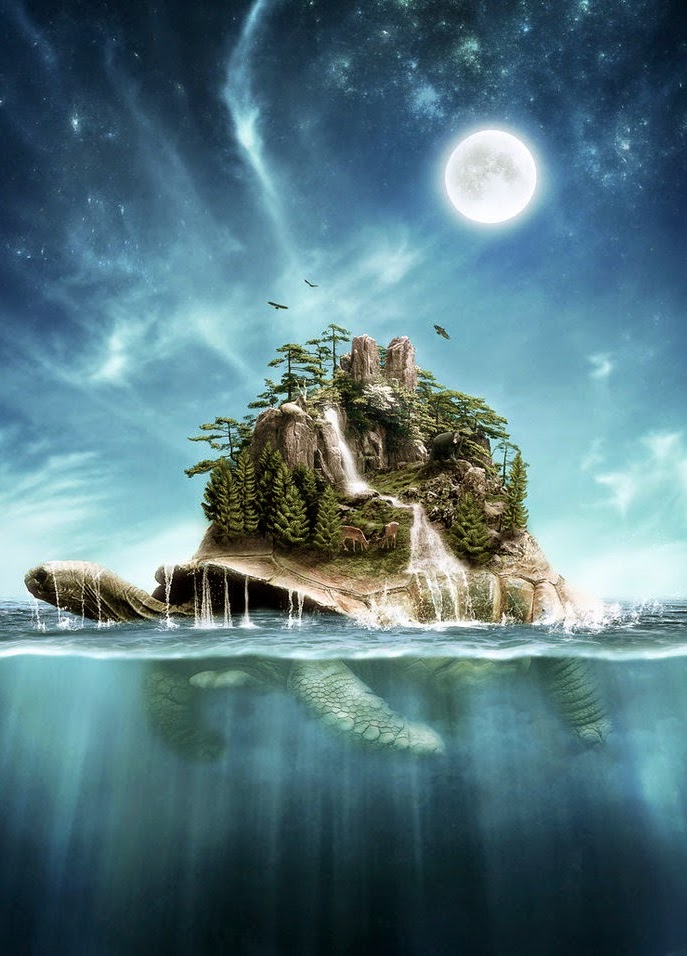
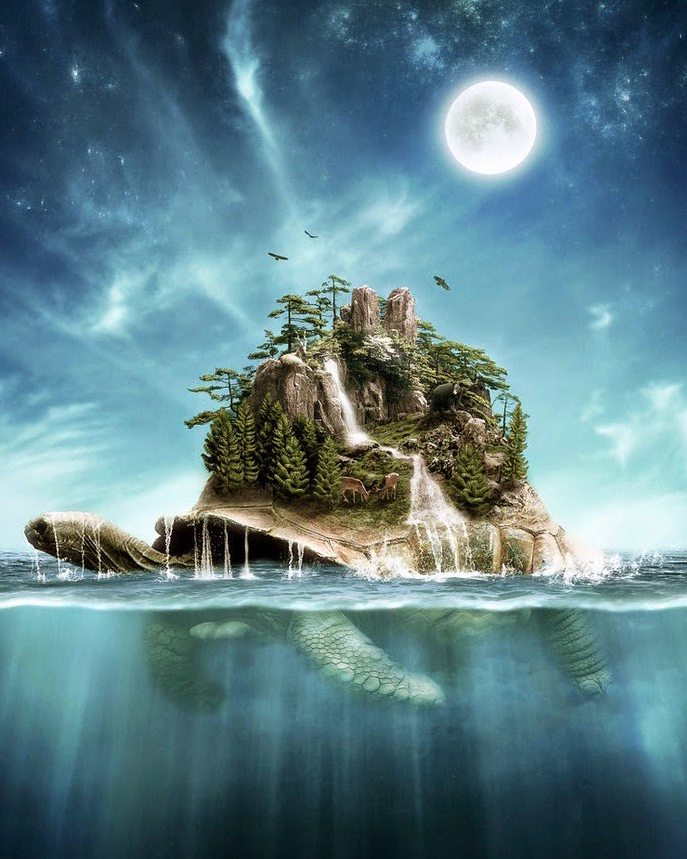
Make image sizes fixed

diff --git a/pages/tools/index.jsx b/pages/tools/index.jsx
@@ -58,46 +58,49 @@ export default function ({ images }) {
   return (
     <Container fluid>
       <Row>
-        <Col className="col-lg-4 order-1 order-lg-2 p-4 p-sm-5 p-lg-4 p-xl-5 green">
+        <Col className="col-lg-4 order-lg-2 order-3 p-4 p-sm-5 p-lg-4 p-xl-5 green">
           <div className="center">
             <h1 style={{ fontSize: "92px" }}>&#x1f4a0;</h1>
             <h2 className="logo">Pricing</h2>
-            <p style={{ fontSize: "16px" }}><s>All plans come with a 90-day free trial</s><br></br>All plans are currently free</p>
+            <p style={{ fontSize: "16px" }}><s>All plans come with a 90-day free trial</s><br></br><b>All plans are currently free</b></p>
             <Table className="table center" hover responsive>
-            <thead>
-              <tr><th>Roommate</th><th>Family</th><th>Community</th></tr>
-            </thead>
-            <tbody style={{ fontSize: "16px" }}>
-              <tr><td>For groups of friends</td><td>For groups with shared values</td><td>For large groups sharing resources</td></tr>
-              <tr><td>Chores</td><td>Chores, Hearts</td><td>All apps</td></tr>
-              <tr><td>Up to 5 users</td><td>Up to 10 users</td><td>Up to 20 users</td></tr>
-              <tr><td><s>$20/mo</s></td><td><s>$40/mo</s></td><td><s>$60/mo</s></td></tr>
-              {/* <tr>
-                <td><Button variant="outline-success" size="sm" href={roommateUri}>Subscribe</Button></td>
-                <td><Button variant="outline-success" size="sm" href={familyUri}>Subscribe</Button></td>
-                <td><Button variant="outline-success" size="sm" href={communityUri}>Subscribe</Button></td>
-              </tr> */}
-              <tr>
-                <td><SlackButton appName="Chores" installUrl={choresUri} /></td>
-                <td><SlackButton appName="Hearts" installUrl={heartsUri} /></td>
-                <td><SlackButton appName="Things" installUrl={thingsUri} /></td>
-              </tr>
-            </tbody>
-          </Table>
+              <thead>
+                <tr><th>Roommate</th><th>Family</th><th>Community</th></tr>
+              </thead>
+              <tbody style={{ fontSize: "16px" }}>
+                <tr><td>For groups of friends</td><td>For groups with shared values</td><td>For large groups sharing resources</td></tr>
+                <tr><td>Chores</td><td>Chores, Hearts</td><td>All apps</td></tr>
+                <tr><td>Up to 5 users</td><td>Up to 10 users</td><td>Up to 20 users</td></tr>
+                <tr><td><s>$20/mo</s></td><td><s>$40/mo</s></td><td><s>$60/mo</s></td></tr>
+                {/* <tr>
+                  <td><Button variant="outline-success" size="sm" href={roommateUri}>Subscribe</Button></td>
+                  <td><Button variant="outline-success" size="sm" href={familyUri}>Subscribe</Button></td>
+                  <td><Button variant="outline-success" size="sm" href={communityUri}>Subscribe</Button></td>
+                </tr> */}
+                {/* <tr>
+                  <td><SlackButton appName="Chores" installUrl={choresUri} /></td>
+                  <td><SlackButton appName="Hearts" installUrl={heartsUri} /></td>
+                  <td><SlackButton appName="Things" installUrl={thingsUri} /></td>
+                </tr> */}
+              </tbody>
+            </Table>
+            <p>Coming soon...</p>
+            <Button variant="outline-success" size="md" href="https://mailchi.mp/a69de84158a5/app-interest">Get updates</Button>
           </div>
         </Col>
-        <Col className="col-lg-4 order-2 order-lg-1 p-4 p-sm-5 p-lg-4 p-xl-5 red">
+
+        <Col className="col-lg-4 order-1 p-4 p-sm-5 p-lg-4 p-xl-5 red">
           <h5>Zaratan builds pioneering software for co-living, running on Slack.</h5>
           <hr></hr>
-          <p>Developed by economists and game designers, Zaratan creates tools to help people share space:</p>
+          <p>Developed by <b>economists and game designers</b>, Zaratan creates tools to help people share space:</p>
           <ul>
             <li><b>Chores</b> for keeping it clean</li>
             <li><b>Hearts</b> for mutual accountability</li>
-            <li><b>Things</b> for group purchasing</li>
+            <li><b>Things</b> for bulk purchasing</li>
             <li>And more to come</li>
           </ul>
 
-          <p>These tools contain the latest thinking in ethical technology, with four core principles:</p>
+          <p>These tools contain the latest thinking in <b>ethical technology</b>, with four core principles:</p>
           <ul>
             <li>No managers or privileged roles</li>
             <li>Simple and intuitive inputs</li>
@@ -109,19 +112,20 @@ export default function ({ images }) {
           <div className="center">
             <Link href="https://archive.org/details/kronovet-metagov-20230329">Watch the talk</Link>
           </div>
-
         </Col>
-        <Col className="col-lg-4 order-3 order-lg-3 p-4 p-sm-5 p-lg-4 p-xl-5 blue">
+
+        <Col className="col-lg-4 order-lg-3 order-2 p-4 p-sm-5 p-lg-4 p-xl-5 blue">
           <Carousel interval={3600} variant="dark">
             {
               images.map((imageUri, i) =>
                 <Carousel.Item key={i}>
                   <Image
-                    className="img-thumbnail d-block w-100"
+                    className="rounded border border-3"
                     src={imageUri}
                     alt={imageUri}
-                    width={200}
-                    height={265}
+                    width={316}
+                    height={560}
+                    style={{ margin: "auto", display: "block" }}
                   />
                 </Carousel.Item>
               )

diff --git a/pages/houses/sage.jsx b/pages/houses/sage.jsx
@@ -28,6 +28,7 @@ export default function ({ images }) {
   return (
     <Container fluid>
       <Row>
+
         <Col className="col-lg-4 order-1 order-lg-2 p-4 p-sm-5 p-lg-4 p-xl-5 green">
           <div className="center">
             <h1 className="spaced logo" style={{fontSize: "78px"}}>Sage House</h1>
@@ -35,16 +36,18 @@ export default function ({ images }) {
             <br></br>
 
             <p>
-              A beautifully-restored 1905 Craftsman, in the heart of vibrant Highland Park, Los Angeles.
+              A beautifully-restored 1905 Craftsman, in the heart of vibrant <b>Highland Park, Los Angeles</b>.
             </p>
             <p>
               This nine-bedroom home features a
               restaurant-style kitchen,
-              original dining room,
+              woodworked dining room,
               sunny living room,
               quiet library,
-              second-floor deck,
-              backyard with fire pit,
+              upstairs deck,
+              backyard fire pit,
+              recording studio,
+              gym,
               guest room,
               and four full bathrooms.
             </p>
@@ -53,40 +56,44 @@ export default function ({ images }) {
             <Button variant="outline-success" size="lg" href={applyUrl}>Apply Now</Button>
           </div>
         </Col>
-        <Col className="col-lg-4 order-2 order-lg-1 p-4 p-sm-5 p-lg-4 p-xl-5 red">
-          <Table className="table center">
-            <thead>
-              <tr><th></th><th>Sage</th><th>Craiglist</th></tr>
-            </thead>
-            <tbody>
-              <tr><th>Rent</th><td>$1,150*</td><td>$950</td></tr>
-              <tr><th>Utilities</th><td>Included</td><td>$80</td></tr>
-              <tr><th>Supplies</th><td>Included</td><td>$60</td></tr>
-              <tr><th>Food Staples</th><td>Included</td><td>$70</td></tr>
-              <tr><th>Internet</th><td>Included</td><td>$40</td></tr>
-              <tr><th>Total</th><td style={{backgroundColor: "#00ff7f33"}}>$1,150</td><td>$1,200</td></tr>
-            </tbody>
-          </Table>
 
-          <p className="center">*Pricing varies by room</p>
-        </Col>
-        <Col className="col-lg-4 order-3 order-lg-3 p-4 p-sm-5 p-lg-4 p-xl-5 blue">
+        <Col className="col-lg-4 order-2 order-lg-3 p-4 p-sm-5 p-lg-4 p-xl-5 blue">
           <Carousel interval={3600}>
             {
               images.map((imageUri, i) =>
                 <Carousel.Item key={i}>
                   <Image
-                    className="img-thumbnail d-block w-100"
+                    className="rounded border border-3"
                     src={imageUri}
                     alt={imageUri}
-                    width={200}
-                    height={350}
+                    width={320}
+                    height={435}
+                    style={{ margin: "auto", display: "block" }}
                   />
                 </Carousel.Item>
               )
             }
           </Carousel>
         </Col>
+
+        <Col className="col-lg-4 order-3 order-lg-1 p-4 p-sm-5 p-lg-4 p-xl-5 red">
+          <Table className="table center">
+            <thead>
+              <tr><th></th><th>Sage</th><th>Craiglist</th></tr>
+            </thead>
+            <tbody>
+              <tr><th>Rent</th><td>$1,200*</td><td>$1050</td></tr>
+              <tr><th>Utilities</th><td>Included</td><td>$80</td></tr>
+              <tr><th>Supplies</th><td>Included</td><td>$60</td></tr>
+              <tr><th>Food Staples</th><td>Included</td><td>$120</td></tr>
+              <tr><th>Internet</th><td>Included</td><td>$40</td></tr>
+              <tr><th>Total</th><td style={{backgroundColor: "#00ff7f33"}}>$1,200</td><td>$1,350</td></tr>
+            </tbody>
+          </Table>
+
+          <p className="center">*Pricing varies by room</p>
+        </Col>
+
       </Row>
     </Container>
   );

diff --git a/pages/index.jsx b/pages/index.jsx
@@ -45,7 +45,7 @@ export default function () {
           <SignupForm></SignupForm>
         </Col>
         <Col className="col-lg-4 order-2 order-lg-1 p-4 p-sm-5 p-lg-4 p-xl-5 red">
-          <h5>Zaratan is an emerging coliving company in Los Angeles. We build physical houses and develop pioneering software tools.</h5>
+          <h5>Zaratan is an emerging coliving company in Los Angeles. We build physical houses and pioneering software tools.</h5>
           <hr></hr>
           <p>We believe that:</p>
           <p>
@@ -54,19 +54,26 @@ export default function () {
             <b>Community</b> cannot be bought &#x2013;&nbsp;
             <b>Rules</b> can be simple &#x2013;&nbsp;
             <b>Work</b> should be valued &#x2013;&nbsp;
-            <b>Enviroment</b> starts at home.
+            <b>Conservation</b> starts at home.
           </p>
 
           <p>
-            We're looking for people who are <b>kind, creative, and reliable</b>. We keep prices reasonable, and in return ask members to help with chores &#x2013; we don't have managers or servants.
-            Meetings can be boring, so we've developed tools to make running a house as easy as playing a game.
-            If you accept the responsibility, this might be one of the best experiences of your life.
+            We're looking for people who are <b>kind, creative, and reliable</b>. We keep prices reasonable, and in return ask members to help with chores &#x2013; we don't have managers or cleaners.
+            Meetings can be boring, so we made tools to make running a house as easy as playing a game.
+            If you can handle the freedom, this could be one of the best experiences of your life.
           </p>
         </Col>
         <Col className="col-lg-4 order-3 order-lg-3 p-4 p-sm-5 p-lg-4 p-xl-5 blue">
             {/* Image Source: https://www.deviantart.com/rowye/art/Turtle-Island-483132909 */}
             <Link href="https://en.wikipedia.org/wiki/Zaratan">
-              <Image className="img-fluid img-thumbnail" src={zaratanPic} alt="Image of a Zaratan" style={{ margin: "auto", display: "block", opacity: "0.65"}} />
+              <Image
+                className="rounded border border-3"
+                src={zaratanPic}
+                alt="Image of a Zaratan"
+                width={320}
+                height={400}
+                style={{ margin: "auto", display: "block", opacity: "0.75"}}
+              />
             </Link>
         </Col>
       </Row>

diff --git a/pages/tools/things.jsx b/pages/tools/things.jsx
@@ -4,7 +4,13 @@ export default function () {
   return (
     <Container fluid>
       <Row>
-        <Col className="col-lg-4 p-4 p-sm-5 p-lg-4 p-xl-5 green">
+      <Col className="col-lg-4 p-4 p-sm-5 p-lg-4 p-xl-5 green">
+          Coming soon
+        </Col>
+        <Col className="col-lg-4 p-4 p-sm-5 p-lg-4 p-xl-5 red">
+        <b>Things</b>
+        </Col>
+        <Col className="col-lg-4 p-4 p-sm-5 p-lg-4 p-xl-5 blue">
           Coming soon
         </Col>
       </Row>

diff --git a/pages/tools/hearts.jsx b/pages/tools/hearts.jsx
@@ -4,7 +4,13 @@ export default function () {
   return (
     <Container fluid>
       <Row>
+      <Col className="col-lg-4 p-4 p-sm-5 p-lg-4 p-xl-5 green">
+          Coming soon
+        </Col>
         <Col className="col-lg-4 p-4 p-sm-5 p-lg-4 p-xl-5 red">
+        <b>Hearts</b>
+        </Col>
+        <Col className="col-lg-4 p-4 p-sm-5 p-lg-4 p-xl-5 blue">
           Coming soon
         </Col>
       </Row>

diff --git a/pages/tools/chores.jsx b/pages/tools/chores.jsx
@@ -4,6 +4,12 @@ export default function () {
   return (
     <Container fluid>
       <Row>
+        <Col className="col-lg-4 p-4 p-sm-5 p-lg-4 p-xl-5 green">
+          Coming soon
+        </Col>
+        <Col className="col-lg-4 p-4 p-sm-5 p-lg-4 p-xl-5 red">
+          <b>Chores</b>
+        </Col>
         <Col className="col-lg-4 p-4 p-sm-5 p-lg-4 p-xl-5 blue">
           Coming soon
         </Col>

diff --git a/README.md b/README.md
@@ -1,2 +1,5 @@
 # zaratan-site
-Website for Zaratan
+
+[Zaratan website](https://zaratan.world)
+
+Built with React and Next, deployed with AWS Amplify
